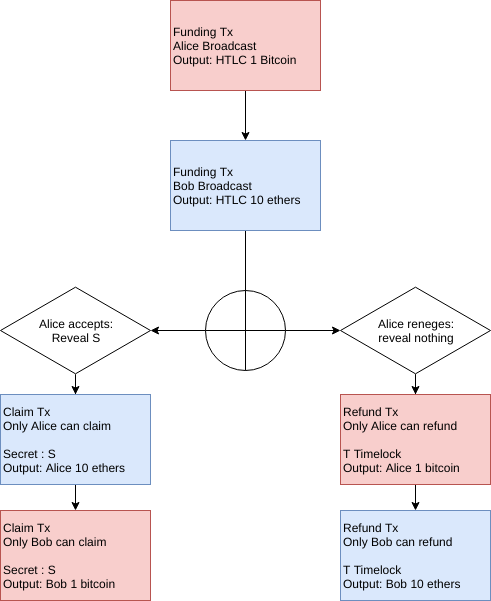
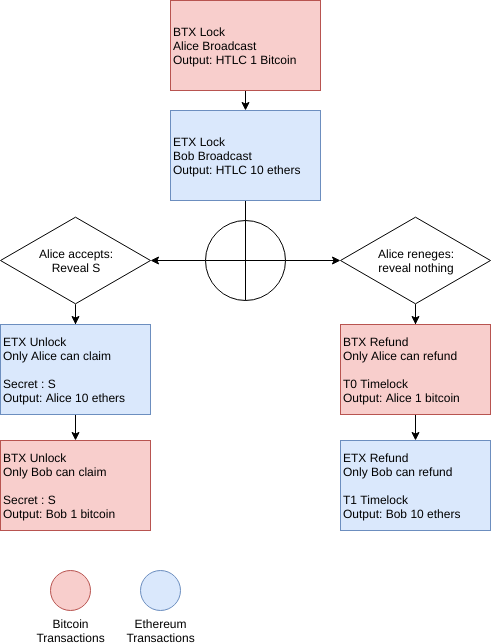
Finish chapter 5

diff --git a/fig/atomic-swap.tex b/fig/atomic-swap.tex
@@ -7,48 +7,45 @@
     \umlobject[no ddots,fill=white!0,x=5]{Bitcoin Blockchain}
     \umlobject[no ddots,fill=white!0,x=9]{Ethereum Blockchain}
     \umlactor[scale=0.6,class=Receiver,fill=white!0,x=14]{Bob}
-
-
     \begin{umlfragment}[type={\shortstack[l]{1. Funding}},name=funding,label=Init]
-        \begin{umlcall}[op={generate a secret and hash},draw=OliveGreen,fill=OliveGreen!20]{Alice}{Alice}
-          \begin{umlcall}[op={Fund HTLC},draw=BrickRed, fill=OliveGreen!20,  return=FundingTx]{Alice}{Bitcoin Blockchain}
+
+        \begin{umlcall}[op={generate a secret},draw=OliveGreen,fill=OliveGreen!20]{Alice}{Alice}
+          \begin{umlcall}[op={hash(secret)},draw=OliveGreen,fill=OliveGreen!20]{Alice}{Alice}
+          \end{umlcall}
+          \begin{umlcall}[op={Fund HTLC},draw=BrickRed, fill=OliveGreen!20,  return=TX1]{Alice}{Bitcoin Blockchain}
           \end{umlcall}
           \begin{umlcall}[op={Transfer the hash},draw=OliveGreen,fill=OliveGreen!20]{Alice}{Bob}
             \begin{umlcall}[op={Watch the transaction and verify},draw=OliveGreen,fill=OliveGreen!20,dt=4]{Bob}{Bitcoin Blockchain}
              \end{umlcall}
              \end{umlcall}
-             \begin{umlcall}[op={Fund HTLC},draw=BrickRed,fill=OliveGreen!20, return=fundingTx]{Bob}{Ethereum Blockchain}
+             \begin{umlcall}[op={Fund HTLC},draw=BrickRed,fill=OliveGreen!20, return=TX2]{Bob}{Ethereum Blockchain}
               \begin{umlcall}[op={Watch the transaction and verify},draw=OliveGreen,fill=OliveGreen!20]{Alice}{Ethereum Blockchain}
               \end{umlcall}
              \end{umlcall}
-
         \end{umlcall}
     \end{umlfragment}
-    
     \begin{umlfragment}[type={\shortstack[l]{2. Claiming}},name=claiming,label=Success]
       \begin{umlcall}[dt=8,op={Claim ETH Fund},draw=MidnightBlue,fill=MidnightBlue!20]{Alice}{Ethereum Blockchain}
-       \begin{umlcall}[dt=6,op={Get claimed tansaction},draw=BrickRed,fill=BrickRed!20]{Ethereum Blockchain}{Alice}
-      
+       \begin{umlcall}[dt=6,op={Get TX3},draw=BrickRed,fill=BrickRed!20]{Ethereum Blockchain}{Alice}
         \end{umlcall}
         \begin{umlcall}[dt=18,op={Extract the secret},draw=MidnightBlue,fill=MidnightBlue!20, return= Return the secret]{Bob}{Ethereum Blockchain}
         \end{umlcall}
         \end{umlcall}
       \begin{umlcall}[dt=6,op={Claim BTC Fund},draw=MidnightBlue,fill=MidnightBlue!20]{Bob}{Bitcoin Blockchain}
-       \begin{umlcall}[dt=6, op={Get claimed transaction},draw=BrickRed,fill=BrickRed!20]{Bitcoin Blockchain}{Bob}
+       \begin{umlcall}[dt=6, op={Get TX4},draw=BrickRed,fill=BrickRed!20]{Bitcoin Blockchain}{Bob}
      \end{umlcall}
      \end{umlcall}
     \end{umlfragment}
-    
     \begin{umlfragment}[type={\shortstack[l]{3. Refunding}},name=refunding,label=Fail]
       \begin{umlcall}[dt=20, op={Timelock reached},draw=MidnightBlue,fill=MidnightBlue!20]{Ethereum Blockchain}{Ethereum Blockchain}
          \begin{umlcall}[dt=15,op={Spent Refund ETH},draw=MidnightBlue,fill=MidnightBlue!20]{Bob}{Ethereum Blockchain}
-       \begin{umlcall}[dt=6, op={Get refunding transaction},draw=BrickRed,fill=BrickRed!20]{Ethereum Blockchain}{Bob}
+       \begin{umlcall}[dt=6, op={Get TX5},draw=BrickRed,fill=BrickRed!20]{Ethereum Blockchain}{Bob}
      \end{umlcall}
      \end{umlcall}
      \end{umlcall}
        \begin{umlcall}[dt=30, op={Timelock reached},draw=MidnightBlue,fill=MidnightBlue!20]{Bitcoin Blockchain}{Bitcoin Blockchain}
          \begin{umlcall}[dt=50,op={Spent refund BTC},draw=MidnightBlue,fill=MidnightBlue!20]{Alice}{Bitcoin Blockchain}
-         \begin{umlcall}[dt=6, op={Get refunding transaction},draw=BrickRed,fill=BrickRed]{Bitcoin Blockchain}{Alice}
+         \begin{umlcall}[dt=6, op={Get TX6},draw=BrickRed,fill=BrickRed]{Bitcoin Blockchain}{Alice}
      \end{umlcall}
      \end{umlcall}
      \end{umlcall}

diff --git a/fig/protocol.tex b/fig/protocol.tex
@@ -6,13 +6,14 @@
     \hline
     \multicolumn{1}{|c}{Alice (BTC$\rightarrow$ETH)} &  & \multicolumn{1}{c|}{Bob (ETH$\rightarrow$BTC)} \\
     & \textit{Initialization phase} & \\
-    $K_a \leftarrow k_aG$  & & $K_b \leftarrow k_bG$ \\
-    $h_a \leftarrow \mathcal{H}_\textit{160} (k_a)$ & & $h_b \leftarrow \mathcal{H}_\textit{160} (k_b)$ \\ 
+    $k_A \xleftarrow{R} [1, p-1]$ & & $k_B \xleftarrow{R} [1, p-1]$ \\
+    $Q_A \leftarrow k_AG$  & & $Q_B \leftarrow k_BG$ \\
+    $h_A \leftarrow \mathcal{H}_\textit{160} (Q_A)$ & & $h_B \leftarrow \mathcal{H}_\textit{160} (Q_B)$ \\ 
     $s \xleftarrow{R} \mathbb{Z}_{2^{256}}$ & & \\
     $h_s \leftarrow \mathcal{H}_\textit{256}(s)$ &&  \\ 
-    \multicolumn{3}{|c|}{$\xleftarrow{\langle \text{send } h_b \rangle}$} \\
+    \multicolumn{3}{|c|}{$\xleftarrow{\langle \text{send } h_B \rangle}$} \\
     & \textit{Lock phase} & \\
-    create $\text{BTX}_\textit{lock}$ $\langle h_a, h_b, h_s, t_0 \rangle$ & & \\
+    create $\text{BTX}_\textit{lock}$ $\langle h_A, h_B, h_s, t_0 \rangle$ & & \\
     sign $\text{BTX}_\textit{lock}$ & & \\
     broadcast $\text{BTX}_\textit{lock}^\textit{signed}$ & &  \\
     \multicolumn{3}{|c|}{$\xrightarrow{\langle \text{send } h_s,  \text{ watch BTX}_\textit{lock} \rangle} $}\\
@@ -31,7 +32,7 @@
     \hline
   \end{tabular}}
   \caption{Full protocol of cross-chain atomic swap between Bitcoin and Ethereum with Alice and Bob with initialization, lock, and swap phases.}
-  \label{tbl:standards}
+  \label{tbl:protocol}
 \end{table}
 
     

diff --git a/fig/transactions.tex b/fig/transactions.tex
@@ -1,0 +1,7 @@
+\begin{figure}[!htbp]
+    \centering
+    \includegraphics[width=0.8\linewidth]{transactions}
+    \caption{List of transactions.}
+    \label{fig:transactions}
+\end{figure}
+    

diff --git a/chapters/05-protocol.md b/chapters/05-protocol.md
@@ -13,26 +13,26 @@ The difficult problem with cross chain swaps is the off chain coordination requi
 
 ## Scenario
 
+Alice and Bob want to exchange 1 Alice tokens for 10 Bob tokens. The problem is that they are not in the same blockchain, Alice token is defined in Bitcoin blockchain , whereas Bob token is only present Ethereum blockchain.
 
 \input{fig/atomic-swap} 
 
-Let's see the process in figure \ref{fig:atomicswap} :
+Let's see the process in the figure \ref{fig:atomicswap} :
 
-* Alice owns Bitcoin (BTC) and wants to exchange Ether (ETH).
-* Alice is the instigator of the swap, she starts by creating a contract address HTLC in bitcoin chain.
-* Alice generate a key and hash it.
-* Alice deposits the BTC and the value in the contract address. It's called the funding transaction.
-* Upon doing this, Alice sends her hash to Bob.
-* Bob generates too a contract address using the hash that has been given to him by Alice in ethereum chain. 
-* Only Alice can unlock the ETH in this address because she has the value which generates that particular hash. It's the claiming transaction.
-* Alice can get her ETH by signing a transaction for Bob’s contract address and Bob can retrieve the BTC by signing a transaction for Alice contract address.
-* When Alice signs Bob’s contract address with the value, she unlocks the address and reveals the value to Bob as well.
-* Bob, now knowing the value, signs off the transaction for Alice’s address and retrieves his BTC.
+1. Alice generates a random set of bytes called value or preimage. The proof should have a size of 32 bytes.
+2. Alice hashes the obtained proof to generate the secret.
+3. Alice is the instigator of the swap, she starts by initiating the locking script, TX1 in Bitcoin chain.
+4. Upon doing this, Alice broadcasts TX1 to the Bitcoin chain and transfer the secret to Bob.
+5. Bob defines locking script transaction TX2 to Ethereum using the hash.
+6. Only Alice can unlock the ETH in this address because she has the value which generates that particular hash. It's the claiming transaction.
+7. Alice can get her ETH by signing a transaction for Bob’s contract address and Bob can retrieve the BTC by signing a transaction TX3 for Alice contract address.
+8. When Alice signs Bob’s contract address with the value, she unlocks the address and reveals the value to Bob as well.
+9. Bob, now knowing the value, signs off the transaction TX4 for Alice’s address and retrieves his BTC.
 
-To summarize the process , the scenario describes the participants and their incentives. `Alice` owns Bitcoin (BTC) and Bob owns ether (ETH), they want to swap funds. Alice and Bob have already negotiated the price in advance and are agreed (i.e. amount of bitcoin for amount of ether to swap). They are only two possible ways of execution path for both parties :
+To summarize the process , the scenario describes the participants and their incentives. `Alice` the sender owns Bitcoin (BTC) and Bob the receiver owns ether (ETH), they want to swap funds. Alice and Bob have already negotiated the price in advance and are agreed (i.e. amount of bitcoin for amount of ether to swap). They are only two possible ways of execution path for both parties :
 
-1. `The protocol succeed` - Alice get her ETH and Bob his BTC.
-2. `The protocol failed` - both parties keep their fund (they will lost some amounts because they need to pay some fees for each transaction).
+* `The protocol succeed` - Alice get her ETH and Bob his BTC.
+* `The protocol failed` - both parties keep their fund (they will lost some amounts because they need to pay some fees for each transaction).
 
 ### Successful swap
 
@@ -54,35 +54,146 @@ The swap is aborted only if one party wants not to continue the process. To get 
 There is possibility that the protocol can be broken again if a party doesn't follow the rules from the Bitcoin part. If the swap process succeed with Alice claiming ETH funds and Bob doesn't claim his BTC fund before the Alice's timelock, then Alice can spent her refund as soon as her timelock is reached. It will conclude that Bob would lost his funds and Alice would get both coins. In Ethereum this can't happend because when the timelock is reached, claim fund are automatically blocked and Alice cannot claim the fund, only Bob spent the refund to avoid that situation.
 To resolve this problem, we must implement a protocol that force Bob to be not offline or compensate Bob if Alice doesn't follow correctly the protocol.
 
-## Prerequisite
+## Prerequisites
 
-In the chapter \ref{scenario}, we describe the conditional process that must be followed to guarantee a swap with atomicity. Bitcoin has a small stack-based script language that allows for conditional execution and timelocks. Whereas Ethereum use full smart contract that allows hashing and timelocks too. The challenge is then to implement the BIP-199 in Ethereum.
+In the chapter \ref{scenario}, we describe the conditional process that must be followed to guarantee a swap with atomicity. Bitcoin has a small stack-based script language that allows for conditional execution and timelocks. Whereas Ethereum use the programming language that allows hashing and timelocks too. The challenge is then to implement the BIP-199 in Ethereum.
 
 ### Bitcoin
 
+The bitcoin transactions in this protocol use \gls{gls-segwit} for making broadcast. For any other cryptocurrencies with a bitcoin style UTXO model (e.g. Litecoin), these requirements must be fulfilled for having the same compatibility with this protocol (i.e. Bitcoin Cash is not compatible.)
+
+#### Pre-image
+Generation of a valid pre-image  $\alpha \in \mathbb{Z}_{2^{256}}$ of 32 bytes size to a given $h = \mathcal{H}_\textit{256}(\alpha)$ where $\mathcal{H}_\textit{256}$ is the `SHA256` algorithm.
+
+#### Public key Hashed 
+For a public key $Q$ to a given $h_Q = \mathcal{H}_\textit{160}(Q)$ where $\mathcal{H}_\textit{160}$ is the `SHA256` follow by the `RIPEMD-160` algorithm.
+$h_Q$ is the version of $Q$ that is given to other participant so that they can send it bitcoins. It's shorter than the original public key, and it may provide an extra layer of security for the bitcoins compared for giving the public key direct.
+
+#### Hashlock
+Hashlock is for revealing the secret to the other participant. It is a primitive that includes a value to reveal some data (pre-image) that is associated to given hash and handle the spent the HTLC.
+
+#### Timelock
+The timelock is to enable a execution paths that is predefined by an amount of time. This amount of time is expressed in a number of block `nLocktime` where $t = \textit{nLocktime}$. We use number of block instead of the amount of time in second for avoiding a problem called `leap second`.
+
+#### Multi signatures
+
+The signatures of both participants are required for creating HTLC only accessible by them if they agree.
+
+
 ### Ethereum
 
+Ethereum doesn't use the same Model as Bitcoin (UTXO) but is based on `Account Model`. Every cryptocurrencies that with this style model can fulfilled there requirements for having the same for having the same compatibility with this protocol. In comparison to Bitcoin, Ethereum use smart contract that handles also timelock and hashlock. However, we doesn't need the `Public key hashed` for the verification. We use instead, the `msg.sender` from Smart contract that allows verification.
+
 ### Elliptic Curve
+
+Bitcoin and Ethereum do use the same elliptic curves. They use the `secp256k1` curve from Standards for Efficient Cryptography (SEC) with the
+\gls{ecdsa} algorithm. The curve is described as follow :
 
 \begin{equation}
 \begin{split}
     p&: \text{a prime number;}\ p = 2^{256} - 2^{32} - 2^9 - 2^8 - 2^7 - 2^6 - 2^4 - 1 \\
     a&: \text{an element of } \mathbb{F}_p;\ a = 0 \\
     b&: \text{an element of } \mathbb{F}_p;\ b = 7 \\
-    E'&: \text{an elliptic curve equation};\ y^2 = x^3 + bx + a \\
-    G'&: \text{a base point};\ G' = \\ (&\texttt{\scriptsize0x79BE667EF9DCBBAC55A06295CE870B07029BFCDB2DCE28D959F2815B16F81798},\\ &\texttt{\scriptsize0x483ADA7726A3C4655DA4FBFC0E1108A8FD17B448A68554199C47D08FFB10D4B8}) \\
+    E&: \text{an elliptic curve equation};\ y^2 = x^3 + bx + a \\
+    G&: \text{a base point};\ G' = \\ (&\texttt{\scriptsize0x79BE667EF9DCBBAC55A06295CE870B07029BFCDB2DCE28D959F2815B16F81798},\\ &\texttt{\scriptsize0x483ADA7726A3C4655DA4FBFC0E1108A8FD17B448A68554199C47D08FFB10D4B8}) \\
 \end{split}
 \end{equation}
 
 ## Hashed Timelock Contract
 
+The overall protocol is as follow : Alice moves her bitcoin into an address where each participant controls a type of transaction using Bitcoin scripting language. Bob do the same into a Ethereum Smart contract that is then used to reveal the secret depending of Alice who claims the ether. Bitcoin and Ethereum transactions  are designed in such a way that if a participant follows the protocol he can’t terminate with a loss. If the deal goes through, Alice spends the ether by revealing the secret, thus allowing Bob to spend the locked bitcoin. If the deal is aborted, Bob spends the ether after the second timelock,thus allowing Alice to spend the bitcoin after the first timelock. In both cases, the participants must add transactions fees.
+The full protocol is described in Table \ref{tbl:protocol}.
+
 \input{fig/protocol}
 
-The scenario describe the participants and their incentives. `Alice`, who owns monero (XMR), and Bob, who owns bitcoin (BTC), want to swap funds. We assume
-that they already have negotiated the price in advance (i.e. amount of bitcoin
-for amount of monero to swap.) This negotiation can also be integrated into the
-protocol, for example by swap services who provide a price to their customers.
-Both participants wish to only have two possible execution paths (which are
-mutually exclusive to each other) when executing the protocol: (1) the protocol
-succeeds and Alice gets bitcoin, Bob gets monero, or (2) the protocol fails and
-both keep their original funds minus the minimum transaction fees possible.
+\newpage
+
+### Time parameters 
+
+\begin{equation}
+\begin{split}
+    t_0& : \text{ Alice's timelock} \\   
+    t_1& : \text{ Bob's timelock}  
+\end{split}
+\end{equation}
+
+We use two timelocks t0 and t1 that are defined during lock swap. t0 sets the time window during which it is safe to execute the trade. When t0 is passed, the refund may start. t1 sets the response time during which Alice is required to react and reveal  her preimage to get her ether. After t1, Bob can get his ether back and allow Alice to redeem her bitcoin.
+
+### Bitcoin Script
+
+#### Swaplock
+\gls{p2sh} is used to lock funds and defines the two base execution paths :
+
+ 1. swap execution [success]. 
+ 2. refund execution [fail]. 
+   
+The script is defined with Bob's $h_B$ public key hashed, Alice's $h_A$ public key hashed and the preimage $h_s$  in the Listing \ref{lst:p2sh}:
+
+\begin{minipage}{\linewidth}\centering
+\begin{lstlisting}[mathescape=true, caption={Swaplock script.},label=lst:p2sh]
+OP_IF
+    OP_SHA256 <$h_s$> OP_EQUALVERIFY OP_DUP 
+    OP_HASH160 <$h_B$>  
+OP_ESLE
+    <$t_0$> OP_CHECKSEQUENCEVERIFY OP_DROP OP_DUP
+    OP_HASH160 <$h_A$>
+OP_ENDIF
+OP_EQUALVERIFY
+OP_CHECKSIG
+\end{lstlisting}
+\end{minipage}
+
+#### Claim Fund
+
+Bob takes control of bitcoin in using the pre-image $s$ and his public key hashed $h_B$ from Alice to redeem the `Swaplock P2SH`. Bob can redeem it with:
+\begin{minipage}{\linewidth}\centering
+\begin{lstlisting}[mathescape=true, caption={Bob's script signature},label=lst:claim]
+   <$sig_B$> <$h_B$> <$s$> OP_TRUE
+\end{lstlisting}
+\end{minipage}
+
+#### Spend Refund
+
+With this contract Alice can spend this output wit her public key hashed $h_A$ after the timelock $t_0$ with the script signature :
+\begin{minipage}{\linewidth}\centering
+\begin{lstlisting}[mathescape=true, caption={Alice's script signature},label=lst:refund]
+   <$sig_A$> <$h_A$> OP_FALSE
+\end{lstlisting}
+\end{minipage}
+
+### Ethereum Smart Contract
+
+Ethereum doesn't use script language Bitcoin but the programming language for the smart contract. The smart contract allows to create functions :
+
+#### Function lock()
+Function that will create a contract with all the prerequisites and lock it with the address of the sender `Bob` and the address of the receiver `Alice`.
+
+#### Function unlock()
+Function when it is called, check if the pre-image $s$ is correct and then transfer the fund to `Alice`.
+
+#### Function refund()
+Function when it is called, check if the timelock $t_1$ is reached and then transfer the fund to `Bob`.
+
+### Transactions
+
+All the transaction are described in the figure \ref{fig:transactions}.
+
+#### Funding transaction
+
+The funding transaction is the transaction sending fund to the contract address. 
+$\text{BTX}_\textit{lock}$, bitcoin transaction with 1 or more inputs from Alice and the output (vout) to the `Swaplock P2SH`.
+$\text{ETX}_\textit{lock}$, ethereum transaction from Bob that sends funds to the Smart Contract address. 
+
+#### Claim Transaction
+
+The claim transaction is a transaction that allows the sender to spend the funds.
+$\text{BTX}_\textit{unlock}$, bitcoin transaction with 1 inputs consuming `Swaplock P2SH` ( $\text{BTX}_\textit{lock}$ ) and 1 output vout to Bob.
+$\text{ETX}_\textit{unlock}$, ethereum transaction from the `Smart Contract` that call the function `unlock` to send the funds to Alice. 
+
+#### Refund transaction
+
+The refund transaction is a transaction that allows the sender to abort the swap and get his funds back.
+$\text{BTX}_\textit{refund}$, bitcoin transaction with 1 inputs consuming `Swaplock P2SH` ( $\text{BTX}_\textit{lock}$ ) and 1 output vout to Alice.
+$\text{ETX}_\textit{refund}$, ethereum transaction from `Smart Contract` that call the function `refund` to send back the funds to Bob. 
+
+\input{fig/transactions}

diff --git a/chapters/04-atomic-swap.md b/chapters/04-atomic-swap.md
@@ -38,7 +38,7 @@ To work, A Hashed Timelock Contract implements several elements from existing cr
 
 #### Hashlock
 
-A hashlock is a type of encumbrance that restricts the spending of an output until a specified piece of data is publicly revealed. Hashlocks have the useful property that once any hashlock is opened publicly, any other hashlock secured using the same key can also be opened. The hashlock is a scrambled version of a cryptographic key generated by the originator of a transaction. By encumbering transaction outputs with a hashlock and timelock, the channel counterparty will be unable to outright steal funds and coins can be exchanged without outright counterparty theft.  
+A hashlock is a type of encumbrance that restricts the spending of an output until a specified piece of data is publicly revealed. Hashlocks have the useful property that once any hashlock is opened publicly, any other hashlock secured using the same key can also be opened. The hashlock is a scrambled version of a cryptographic key generated by the originator of a transaction.
 
 #### CheckLockTimeVerify (CLTV)
 

diff --git a/abstract.md b/abstract.md
@@ -1,3 +1,4 @@
-Atomic swaps are pratical for exchanging different cryptocurrencies in avoiding any trusted third-parties. This project show a swap between Bitcoin and Ethereum blockchain using payment channels tools like hashlock or timelock. When the protocol is followed by the both participants, it guarantees the swap without any risk. In the opposite, there is no scenario where someone can control both coins.
+Atomic swaps are practical for exchanging different cryptocurrencies in avoiding any trusted third-parties. This project shows a swap between Bitcoin and Ethereum blockchain using payment channels tools like hashlock or timelock. When the protocol is followed by the both participants, it guarantees the swap without any risk. In the opposite, there is no scenario where someone can control both coins.
 
-**Keywords**: Bitcoin, Ethereum, Atomic Swap
+#### Keywords :
+`Bitcoin, Ethereum, Atomic Swap`
